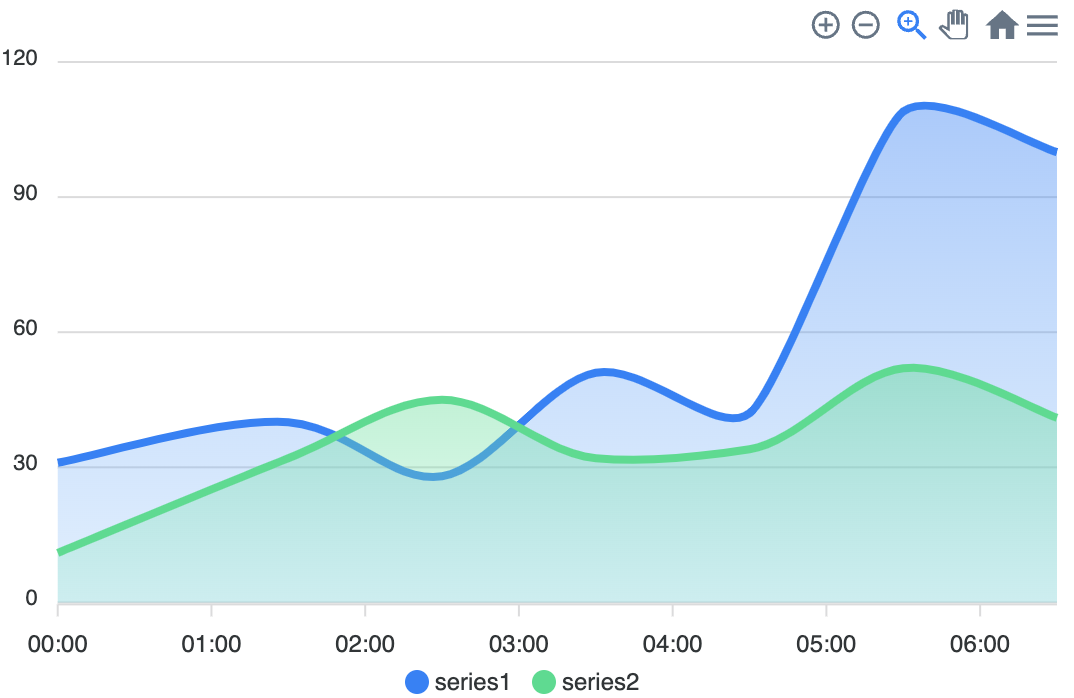
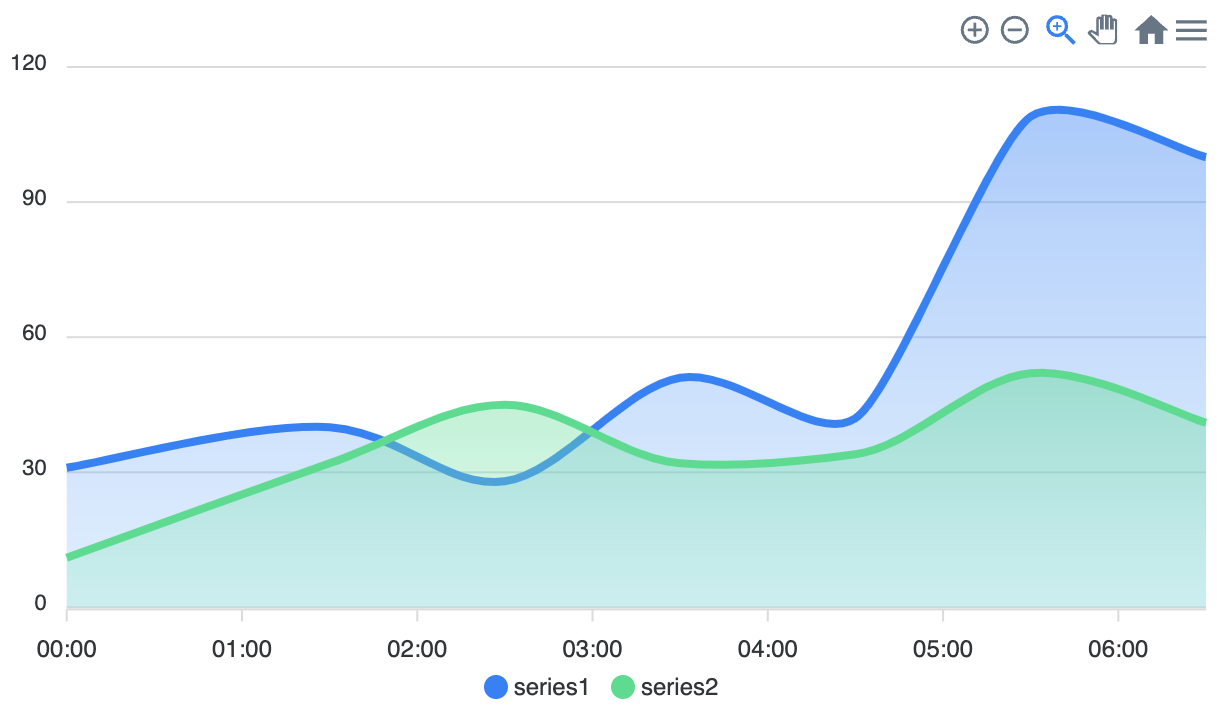
COMPLETE -- overview center

diff --git a/CSS/10-html-css-project/index.html b/CSS/10-html-css-project/index.html
@@ -12,6 +12,7 @@
   <link rel="stylesheet" href="./styles/header.css">
   <link rel="stylesheet" href="./styles/overview.css">
   <link rel="stylesheet" href="./styles/overview-left.css">
+  <link rel="stylesheet" href="./styles/overview-center.css">
   <title>Document</title>
 </head>
 
@@ -127,7 +128,25 @@
         <!-- #endregion -->
       </div>
       <!-- #endregion -->
-      <div class="center"></div>
+      <!-- #region -- center -->
+      <div class="center">
+        <img src="./images/chart.png" alt="">
+        <div class="chart-figures">
+          <div class="marketing">
+            <div class="amount">$406,100</div>
+            <div class="title">Sales marketing report</div>
+          </div>
+          <div class="sales">
+            <div class="amount">$150,401</div>
+            <div class="title">Annual sales revenue</div>
+          </div>
+          <div class="revenue">
+            <div class="amount">$16,822</div>
+            <div class="title">Half-year revenue margin</div>
+          </div>
+        </div>
+      </div>
+      <!-- #endregion -->
       <div class="right"></div>
     </div>
     <!-- #endregion -->

diff --git a/CSS/10-html-css-project/styles/overview-center.css b/CSS/10-html-css-project/styles/overview-center.css
@@ -1,0 +1,19 @@
+div.overview > div.center {
+  background-color: var(--overview-section-bg)
+}
+
+div.chart-figures {
+  display: grid;
+  grid-template-columns: 1fr 1fr 1fr;
+  gap: 10px;
+  margin-left: 10px;
+  margin-right: 10px;
+}
+
+div.sales, div.marketing, div.revenue {
+  text-align: center;
+}
+
+div.chart-figures div.title {
+  font-size: 0.65rem;
+}
